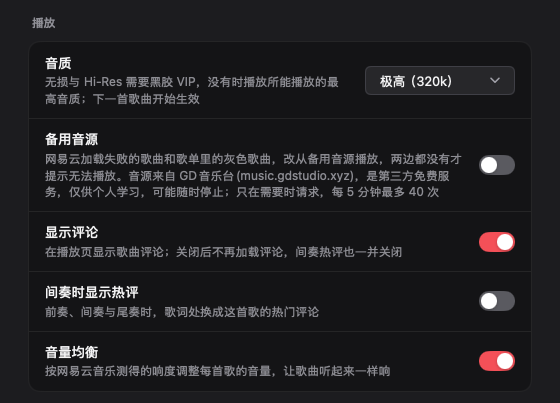
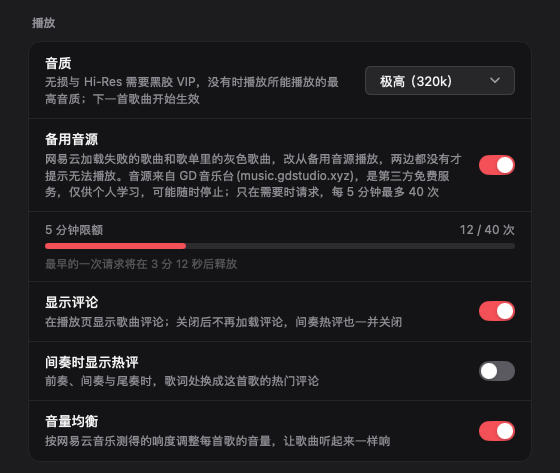
Release 0.1.25-duckease.5: README shows today's new features
New README screenshots, rendered from the real views with demo data:
picking songs, the playlist manager, the cover picker, the sidebar
editor, Now Playing with the fallback badge, and the settings' quota bar
and backup group. The new-features section lists everything added today
under this version.

diff --git a/internal/app/press_test.go b/internal/app/press_test.go
@@ -27,7 +27,9 @@ func TestPressScreenshots(t *testing.T) {
 	if err := os.MkdirAll(dir, 0o755); err != nil {
 		t.Fatal(err)
 	}
-	for _, scene := range []string{"home", "now-playing", "stage", "queue", "playlist", "settings"} {
+	fallbackUsage = func(time.Time) (int, int, time.Duration) { return 12, 40, 3*time.Minute + 12*time.Second }
+	defer func() { fallbackUsage = netease.FallbackUsage }()
+	for _, scene := range []string{"home", "now-playing", "stage", "queue", "playlist", "settings", "picking", "manager", "cover-picker", "sidebar", "backup"} {
 		for _, dark := range []bool{false, true} {
 			a := pressApp()
 			view, w, h := a.view, 1200, 800
@@ -37,10 +39,31 @@ func TestPressScreenshots(t *testing.T) {
 				a.playlists[pl.ID] = &pl
 				a.route = route{page: pagePlaylist, id: pl.ID}
 				a.plFilter = plFilter{id: pl.ID, sort: sortName}
-			case "settings":
-				view, w, h = a.settingsView, 560, 1100
+			case "settings", "backup":
+				view, w, h = a.settingsView, 560, 1500
+				a.settings.Fallback = true
+				a.backup = backupState{checked: true, at: time.Date(2026, 11, 12, 21, 30, 0, 0, time.Local)}
 			case "now-playing":
 				a.nowPlaying = true
+				// A song the fallback source served, as its badges say.
+				a.pl.SetStream(&netease.Stream{Level: "lossless", Type: "flac", Fallback: true})
+			case "picking":
+				pl := a.playlists[a.mine[1].ID]
+				a.route = route{page: pagePlaylist, id: pl.ID}
+				a.startPicking(pl.ID)
+				for _, i := range []int{1, 2, 4} {
+					a.pick.ids[pl.Tracks[i].ID] = true
+				}
+			case "manager":
+				a.route = route{page: pagePlaylist, id: a.mine[1].ID}
+				a.openManager(false)
+				a.manager.ids[a.mine[1].ID], a.manager.ids[a.mine[3].ID] = true, true
+			case "cover-picker":
+				a.route = route{page: pagePlaylist, id: a.mine[1].ID}
+				a.openCoverPicker(a.mine[1].ID)
+			case "sidebar":
+				a.customizing = true
+				a.settings.Sidebar = []sideItem{{ID: "home"}, {ID: "daily"}, {ID: "mine"}, {ID: "fm"}, {ID: "charts", Hidden: true}, {ID: "podcasts", Hidden: true}, {ID: "search"}, {ID: "saved"}}
 			case "stage":
 				a.nowPlaying, a.npPane = true, paneStage
 			case "queue":
@@ -51,14 +74,14 @@ func TestPressScreenshots(t *testing.T) {
 			tt.Advance(2 * time.Second)
 			tt.Frame()
 			img := tt.Image()
-			if scene == "settings" {
-				// The playback group, where the newest switches are.
-				from, ok := tt.Find("播放")
-				to, ok2 := tt.Find("缓存")
+			// The settings' groups the newest switches are in.
+			if from, to := map[string]string{"settings": "播放", "backup": "备份"}[scene], map[string]string{"settings": "缓存", "backup": "更新"}[scene]; from != "" {
+				f, ok := tt.Find(from)
+				e, ok2 := tt.Find(to)
 				if !ok || !ok2 {
-					t.Fatal("no playback group")
+					t.Fatalf("no %s group", from)
 				}
-				img = img.SubImage(image.Rect(0, int(from.Y-14), w, int(to.Y-10))).(*image.RGBA)
+				img = img.SubImage(image.Rect(0, int(f.Y-14), w, int(e.Y-10))).(*image.RGBA)
 			}
 			name := scene + "-light.png"
 			if dark {
@@ -106,6 +129,17 @@ func pressApp() *app {
 		}
 	}
 	a.daily = songs
+	// The listener's own playlists, the liked songs first, and those saved.
+	a.mine = []netease.Playlist{{ID: 200, Name: "Demo喜欢的音乐", SpecialType: 5, CoverURL: "press://cover/0", TrackCount: 8}}
+	for i, name := range []string{"通勤路上", "睡前听", "跑步歌单", "写作业"} {
+		a.mine = append(a.mine, netease.Playlist{ID: int64(201 + i), Name: name, CoverURL: fmt.Sprintf("press://cover/%d", (i+2)%8), TrackCount: 12 + i*7})
+	}
+	a.saved = []netease.Playlist{a.featured[0], a.featured[3]}
+	a.saved[0].Creator.Nickname, a.saved[1].Creator.Nickname = "晚风", "留灯的人"
+	a.playlists[201] = &netease.Playlist{ID: 201, Name: "通勤路上", CoverURL: "press://cover/2", Tracks: songs, Creator: a.featured[0].Creator}
+	a.playlists[201].Creator.Nickname = "Demo"
+	a.profile.UserID = 1
+	a.playlists[201].Creator.UserID = 1
 	a.pl.Cue(songs)
 	a.pl.SetLyrics(lyrics.Build("[00:00.00]晚风经过，灯一盏盏亮了\n[00:18.00]把没做完的事留给明天\n[00:36.00]今天就走到这里吧\n[00:54.00]慢一点，也能到家\n[01:12.00]耳机里还有一小段晴天\n[01:30.00]陪我沿着海岸走远", "", ""))
 	a.pl.Hold(40 * time.Second)

diff --git a/internal/app/ui_settings.go b/internal/app/ui_settings.go
@@ -283,11 +283,15 @@ func (a *app) settingsView(c *ui.Context) {
 	})
 }
 
+// fallbackUsage reads the fallback source's allowance; the README's
+// screenshots replace it.
+var fallbackUsage = netease.FallbackUsage
+
 // fallbackQuota shows how much of the fallback source's five minutes'
 // allowance is used: a bar filling toward the limit, and when a request
 // frees up again.
 func (a *app) fallbackQuota(c *ui.Context, p palette) {
-	used, limit, freeIn := netease.FallbackUsage(c.Now())
+	used, limit, freeIn := fallbackUsage(c.Now())
 	if freeIn > 0 {
 		// Drawn again each second, for the countdown, until the oldest
 		// request stops counting.

diff --git a/README.zh-CN.md b/README.zh-CN.md
@@ -44,30 +44,29 @@
 
 <table>
   <tr>
-    <td width="50%" valign="top"><b>正在播放</b><br>封面、播放控制和滚动歌词放在一页。<br><br><picture><source media="(prefers-color-scheme: dark)" srcset="assets/screenshots/now-playing-dark.png"><img alt="正在播放页，橙色演示封面旁显示本项目原创的中文演示歌词" src="assets/screenshots/now-playing-light.png"></picture></td>
+    <td width="50%" valign="top"><b>正在播放</b><br>封面、播放控制和滚动歌词放在一页。歌来自备用音源时，进度条下面会标出来。<br><br><picture><source media="(prefers-color-scheme: dark)" srcset="assets/screenshots/now-playing-dark.png"><img alt="正在播放页，橙色演示封面旁显示本项目原创的中文演示歌词" src="assets/screenshots/now-playing-light.png"></picture></td>
     <td width="50%" valign="top"><b>歌词律动</b><br>切到单独的舞台，看歌词跟着播放进度变化。<br><br><picture><source media="(prefers-color-scheme: dark)" srcset="assets/screenshots/stage-dark.png"><img alt="歌词律动页，展示本项目原创演示歌词中的一句" src="assets/screenshots/stage-light.png"></picture></td>
   </tr>
 </table>
 
-## 0.1.25-duckease.4 新功能
-
-- **批量管理歌单**：歌单页点「批量选择」，勾选的歌可以加到、移到别的歌单，或从当前歌单移除。侧边栏「我的歌单」「收藏的歌单」旁的按钮打开管理窗口，可以批量删除、取消收藏、复制或合并歌单。
-- **自定义封面**：在自己歌单封面右下角的「⋯」里换图，可以搜歌单里歌曲的专辑封面，也可以用本机图片，只存在本机。
-- **自定义侧边栏**：每一项都能关掉或调整顺序。
-- **备用音源提示**：播放页标出来自备用音源的歌和它的音质；设置里能看到 5 分钟限额用了多少。
-- **iCloud 备份**：在「设置 → 备份」里手动备份和恢复本机设置，不含网易云账号。
-- 刘海播放器已删除。
-
-## 0.1.25-duckease.3 新功能
+## 0.1.25-duckease.5 新功能
 
 <table>
   <tr>
-    <td width="58%" valign="top"><b>歌单排序与搜索</b><br>可以按歌名、歌手、专辑、时长排序，也可以倒序，中文按拼音排。<b>试试手气</b>每点一次就打乱成新的顺序，播放按页面上的顺序走。搜索框按歌名、歌手、专辑筛选，歌单里没有的歌，点一下就能到全部歌曲里搜。<br><br><picture><source media="(prefers-color-scheme: dark)" srcset="assets/screenshots/playlist-dark.png"><img alt="按歌名排序的演示歌单，歌曲上方是排序菜单、试试手气按钮和歌单内搜索框" src="assets/screenshots/playlist-light.png"></picture></td>
-    <td width="42%" valign="top"><b>备用音源与评论开关</b><br>都在「设置 → 播放」里。<b>备用音源</b>默认关闭，打开后，网易云加载失败的歌和歌单里的灰色歌曲改从 <a href="https://music.gdstudio.xyz">GD音乐台(music.gdstudio.xyz)</a> 取，两边都没有才提示无法播放。<b>显示评论</b>控制播放页的评论和间奏热评。<br><br><picture><source media="(prefers-color-scheme: dark)" srcset="assets/screenshots/settings-dark.png"><img alt="设置的播放分组，含备用音源与显示评论两个开关" src="assets/screenshots/settings-light.png"></picture></td>
+    <td width="50%" valign="top"><b>批量选择歌曲</b><br>歌单页点「批量选择」，点歌就是勾选，Shift 连选，⌘A 全选。底部浮条把选中的歌加到歌单、移到另一个歌单，或从当前歌单移除。「我喜欢的音乐」也能这样批量取消喜欢。<br><br><picture><source media="(prefers-color-scheme: dark)" srcset="assets/screenshots/picking-dark.png"><img alt="演示歌单处于批量选择状态，勾选了三首歌，底部浮条有添加到歌单、移到歌单和移除" src="assets/screenshots/picking-light.png"></picture></td>
+    <td width="50%" valign="top"><b>管理歌单</b><br>侧边栏歌单分组旁的按钮打开。自己的歌单可以多选后复制、迁移到一个歌单，或一起删除；收藏的歌单可以复制成自己的、合并，或一起取消收藏。请求逐个发出，避开网易云的风控。<br><br><picture><source media="(prefers-color-scheme: dark)" srcset="assets/screenshots/manager-dark.png"><img alt="管理歌单窗口，「我创建的」标签下勾选了两个演示歌单，底部有复制到、迁移到和删除" src="assets/screenshots/manager-light.png"></picture></td>
+  </tr>
+  <tr>
+    <td width="50%" valign="top"><b>换封面</b><br>自己歌单封面右下角的「⋯」里选「更换封面」，从歌单里歌曲的专辑封面中搜一张，或者用本机图片。封面只存在这台电脑上。<br><br><picture><source media="(prefers-color-scheme: dark)" srcset="assets/screenshots/cover-picker-dark.png"><img alt="更换封面窗口，列出演示歌单里歌曲的封面，上方是搜索框，下方是从本机选择图片" src="assets/screenshots/cover-picker-light.png"></picture></td>
+    <td width="50%" valign="top"><b>自定义侧边栏</b><br>侧边栏末尾的「自定义侧边栏」：每一项都能关掉，拖动或用箭头调顺序，底部的正在播放卡片也能隐藏。<br><br><picture><source media="(prefers-color-scheme: dark)" srcset="assets/screenshots/sidebar-dark.png"><img alt="自定义侧边栏窗口，排行榜和播客已关闭，我的歌单被移到私人 FM 上方" src="assets/screenshots/sidebar-light.png"></picture></td>
+  </tr>
+  <tr>
+    <td width="50%" valign="top"><b>备用音源看得见</b><br>歌从备用音源来时，播放页在进度条下面标出「备用音源」和它给的音质。打开备用音源后，设置里能看到 5 分钟 40 次的额度用了多少。<br><br><picture><source media="(prefers-color-scheme: dark)" srcset="assets/screenshots/settings-dark.png"><img alt="设置的播放分组，备用音源开关下面是 5 分钟限额进度条，显示 12 / 40 次" src="assets/screenshots/settings-light.png"></picture></td>
+    <td width="50%" valign="top"><b>iCloud 备份</b><br>「设置 → 备份」手动把设置、侧边栏布局、搜索记录和自定义封面存到 iCloud 云盘，换电脑后能恢复。不含网易云账号和登录信息。<br><br><picture><source media="(prefers-color-scheme: dark)" srcset="assets/screenshots/backup-dark.png"><img alt="设置的备份分组，有立即备份和从 iCloud 恢复两个按钮，显示上次备份时间" src="assets/screenshots/backup-light.png"></picture></td>
   </tr>
 </table>
 
-另外，应用会检查本仓库的新版本并提示下载，「关于」窗口里有我的 GitHub 和 Threads 链接。
+另外，刘海播放器已经删掉了，「⋯」按钮挪到了歌单封面右下角。
 
 ## 本机内存截图：191 MB
 
@@ -85,6 +84,7 @@ Go 原生界面，不套 WebView。下面是我自己 Mac 上的占用截图，*
 | 标准到 Hi-Res，取决于实际权限 | 搜索歌曲、歌手、专辑、用户、播客 | 本地歌曲缓存、恢复上次进度 |
 | 同步歌词、翻译 | 私人 FM、心动模式 | 封面手势、键盘操作 |
 | 收听和订阅播客 | 歌手页、专辑页、用户页 | 可自定义的侧边栏 |
+| 批量选歌、移动、移除 | 歌单管理、复制收藏的歌单 | 自定义歌单封面、iCloud 备份 |
 
 功能可用性由平台决定。选了某种音质，不等于获得了对应播放权限。本项目不增加会员解锁功能，也不承诺绕过访问限制。唯一的例外默认关闭、需要自己打开：设置里的「备用音源」会在歌曲加载失败或显示为灰色时，向第三方的 [GD音乐台](https://music.gdstudio.xyz) 接口取播放地址。它是别人运营的免费服务，仅限个人学习使用，可能随时停止。
 
@@ -96,12 +96,13 @@ Go 原生界面，不套 WebView。下面是我自己 Mac 上的占用截图，*
 - 播放失败时有限次数重试并记录诊断日志；收到风控代码 `-460` 时停下冷却，避免连续跳过整张歌单。
 - 公开版移除了继承的旧官网、网站歌曲演示和原作者的签名发布工作流。
 - 新增歌单排序、试试手气、歌单内搜索，可选的备用音源，以及评论开关。
+- 新增批量选择歌曲、歌单管理、自定义歌单封面、自定义侧边栏和 iCloud 备份；删除刘海播放器。
 
 具体来源与修改日期见 [NOTICE.md](NOTICE.md)，改动见[更新日志](CHANGELOG.md)，技术细节见[维护说明](MAINTENANCE.md)。公开仓库从清理后的源码快照开始，较早的本地开发历史不随之上传。
 
 ## macOS 安装
 
-[**下载 macOS DMG 安装包**](https://github.com/yuanruoyu515/duckease-music/releases/download/v0.1.25-duckease.4/duckease-music-0.1.25-duckease.4.dmg) · [发布说明与校验值](https://github.com/yuanruoyu515/duckease-music/releases/tag/v0.1.25-duckease.4)
+[**下载 macOS DMG 安装包**](https://github.com/yuanruoyu515/duckease-music/releases/download/v0.1.25-duckease.5/duckease-music-0.1.25-duckease.5.dmg) · [发布说明与校验值](https://github.com/yuanruoyu515/duckease-music/releases/tag/v0.1.25-duckease.5)
 
 1. 下载并打开 DMG。
 2. 把 **DuckEase Music** 拖进旁边的 **Applications（应用程序）**。

diff --git a/README.md b/README.md
@@ -44,21 +44,29 @@ These are renders of the app's actual Go views, using invented songs, original d
 
 <table>
   <tr>
-    <td width="50%" valign="top"><b>Now Playing</b><br>Cover art, playback controls, and a scrollable lyric view.<br><br><picture><source media="(prefers-color-scheme: dark)" srcset="assets/screenshots/now-playing-dark.png"><img alt="Now Playing with an orange demo sleeve and original Chinese demo lyrics" src="assets/screenshots/now-playing-light.png"></picture></td>
+    <td width="50%" valign="top"><b>Now Playing</b><br>Cover art, playback controls, and a scrollable lyric view. A song from the fallback source is marked under the progress bar.<br><br><picture><source media="(prefers-color-scheme: dark)" srcset="assets/screenshots/now-playing-dark.png"><img alt="Now Playing with an orange demo sleeve and original Chinese demo lyrics" src="assets/screenshots/now-playing-light.png"></picture></td>
     <td width="50%" valign="top"><b>Lyric stage</b><br>A separate view for the animated lyric styles.<br><br><picture><source media="(prefers-color-scheme: dark)" srcset="assets/screenshots/stage-dark.png"><img alt="The lyric stage rendering a line from the project's original demo lyrics" src="assets/screenshots/stage-light.png"></picture></td>
   </tr>
 </table>
 
-## New in 0.1.25-duckease.3
+## New in 0.1.25-duckease.5
 
 <table>
   <tr>
-    <td width="58%" valign="top"><b>Sort and search a playlist</b><br>Sort by name, artist, album, or length, or reverse the list. Chinese titles sort by pinyin. <b>Feeling lucky</b> shuffles the list into a new order each time you press it, and playback follows the order on screen. The search box filters by title, artist, or album. If a song isn't in the playlist, one click searches the whole catalog.<br><br><picture><source media="(prefers-color-scheme: dark)" srcset="assets/screenshots/playlist-dark.png"><img alt="A demo playlist sorted by name, with the sort menu, the Feeling lucky button, and the playlist search box above the songs" src="assets/screenshots/playlist-light.png"></picture></td>
-    <td width="42%" valign="top"><b>Fallback source and a comments switch</b><br>Both are under Settings → Playback. <b>Fallback source</b> is off by default. When it's on, songs that fail to load and greyed-out songs are fetched from <a href="https://music.gdstudio.xyz">GD音乐台(music.gdstudio.xyz)</a>. The app reports a song as unplayable only when both sources fail. <b>Show comments</b> turns the comments tab and the hot comments between verses on or off.<br><br><picture><source media="(prefers-color-scheme: dark)" srcset="assets/screenshots/settings-dark.png"><img alt="The Playback settings group, with the Fallback source and Show comments switches" src="assets/screenshots/settings-light.png"></picture></td>
+    <td width="50%" valign="top"><b>Pick songs</b><br>Press 批量选择 on a playlist page, then click songs to pick them, Shift-click for a range, ⌘A for all. A floating bar adds them to a playlist, moves them to another, or removes them. Liked songs can be unliked this way too.<br><br><picture><source media="(prefers-color-scheme: dark)" srcset="assets/screenshots/picking-dark.png"><img alt="A demo playlist in picking mode with three songs checked and a floating bar to add, move, or remove them" src="assets/screenshots/picking-light.png"></picture></td>
+    <td width="50%" valign="top"><b>Playlist manager</b><br>From the buttons beside the sidebar's playlist headers. Copy or migrate several of your playlists into one, or delete them together; copy saved playlists as your own, merge them, or unsave them. Requests go one at a time to stay clear of NetEase's risk control.<br><br><picture><source media="(prefers-color-scheme: dark)" srcset="assets/screenshots/manager-dark.png"><img alt="The playlist manager with two demo playlists checked and buttons to copy, migrate, or delete" src="assets/screenshots/manager-light.png"></picture></td>
+  </tr>
+  <tr>
+    <td width="50%" valign="top"><b>Covers</b><br>Open ⋯ on the corner of your own playlist's cover and choose 更换封面: search the album covers of its songs, or pick a picture from disk. The cover stays on this Mac.<br><br><picture><source media="(prefers-color-scheme: dark)" srcset="assets/screenshots/cover-picker-dark.png"><img alt="The cover picker listing the album covers of a demo playlist's songs, with a search box and a button to choose a picture from disk" src="assets/screenshots/cover-picker-light.png"></picture></td>
+    <td width="50%" valign="top"><b>Your sidebar</b><br>自定义侧边栏 at the end of the sidebar turns each section on or off and reorders them by drag or arrows. The Now Playing card can be hidden too.<br><br><picture><source media="(prefers-color-scheme: dark)" srcset="assets/screenshots/sidebar-dark.png"><img alt="The sidebar editor with Charts and Podcasts turned off and My playlists moved above Personal FM" src="assets/screenshots/sidebar-light.png"></picture></td>
+  </tr>
+  <tr>
+    <td width="50%" valign="top"><b>Fallback source, visible</b><br>Songs from the fallback source carry a 备用音源 badge and the quality it served on Now Playing. With the fallback on, Settings shows how much of its 40 requests per five minutes is used.<br><br><picture><source media="(prefers-color-scheme: dark)" srcset="assets/screenshots/settings-dark.png"><img alt="The Playback settings group with a five-minute quota bar under the fallback switch, at 12 of 40" src="assets/screenshots/settings-light.png"></picture></td>
+    <td width="50%" valign="top"><b>iCloud backup</b><br>Settings → Backup saves the app's settings, sidebar layout, search history and covers to iCloud Drive, by hand, and restores them on another Mac. Nothing of your NetEase account is included.<br><br><picture><source media="(prefers-color-scheme: dark)" srcset="assets/screenshots/backup-dark.png"><img alt="The Backup settings group with Back up now and Restore from iCloud buttons and the last backup time" src="assets/screenshots/backup-light.png"></picture></td>
   </tr>
 </table>
 
-The app also checks this repository's releases for new versions and offers to download them, and its About window links to my GitHub and Threads.
+The notch player is gone, and the ⋯ button now sits on the playlist cover's corner.
 
 ## 191 MB on my Mac
 
@@ -76,6 +84,7 @@ One snapshot, not a fixed memory budget or a controlled benchmark. Usage changes
 | Standard through Hi-Res quality, when available | Songs, artists, albums, users, podcasts | Local audio cache and playback resume |
 | Synced lyrics and translations | Personal FM and Heartbeat mode | Cover gestures and keyboard controls |
 | Podcast playback and subscriptions | Artist, album, and user pages | Customizable sidebar |
+| Pick, move, and remove songs in bulk | Playlist manager, copy saved playlists | Custom playlist covers, iCloud backup |
 
 Availability comes from the platform. Selecting a quality does not create an entitlement to it. This project does not add subscription unlocking or a promise to bypass access restrictions. The one exception is opt-in and off by default: the **Fallback source** setting asks the third-party [GD音乐台](https://music.gdstudio.xyz) API for songs that fail to load or show greyed out. That service is free, run by someone else, for personal study only, and may stop at any time.
 
@@ -87,13 +96,13 @@ Availability comes from the platform. Selecting a quality does not create an ent
 - Added bounded playback retries and diagnostic logging. When the platform returns risk-control code `-460`, the player stops and cools down instead of skipping through the queue.
 - Removed the inherited website, its music demo, and the original author's release/signing workflow from this publication.
 - Added playlist sorting, Feeling lucky, and playlist search; an optional fallback source; and a switch for comments.
-- 0.1.25-duckease.4: pick songs on a playlist page to add, move, or remove them together; a playlist manager for deleting, unsaving, copying, or merging several playlists; local cover images for your own playlists; a customizable sidebar; a badge for songs from the fallback source and its five-minute quota in Settings; manual backup of the app's own settings to iCloud Drive. The notch player is gone.
+- Added picking songs in bulk, a playlist manager, custom playlist covers, a customizable sidebar and iCloud backup; removed the notch player.
 
 See [provenance and modification dates](NOTICE.md), [changes](CHANGELOG.md), and [maintenance notes](MAINTENANCE.md). This repository starts from a clean publication snapshot; older local development history is not uploaded with it.
 
 ## Install on macOS
 
-[**Download the macOS DMG**](https://github.com/yuanruoyu515/duckease-music/releases/download/v0.1.25-duckease.4/duckease-music-0.1.25-duckease.4.dmg) · [Release notes and checksums](https://github.com/yuanruoyu515/duckease-music/releases/tag/v0.1.25-duckease.4)
+[**Download the macOS DMG**](https://github.com/yuanruoyu515/duckease-music/releases/download/v0.1.25-duckease.5/duckease-music-0.1.25-duckease.5.dmg) · [Release notes and checksums](https://github.com/yuanruoyu515/duckease-music/releases/tag/v0.1.25-duckease.5)
 
 1. Download and open the DMG.
 2. Drag **DuckEase Music** onto **Applications** beside it.

diff --git a/docs/SCREENSHOTS.md b/docs/SCREENSHOTS.md
@@ -8,7 +8,7 @@ The screenshots are rendered by the application's actual native Go views through
 NM_PRESS_SHOTS="$PWD/assets/screenshots" CGO_ENABLED=0   go test ./internal/app -run '^TestPressScreenshots$' -count=1
 ```
 
-`internal/app/press_test.go` renders home, Now Playing, the lyric stage, the queue, and a playlist sorted by name in light and dark appearances at 1200 × 800, plus the Playback group of the settings window at 560 points wide. Home greetings and date labels use the tester's current clock; screenshot pixels are deliberately not asserted.
+`internal/app/press_test.go` renders home, Now Playing (with a song from the fallback source), the lyric stage, the queue, a playlist sorted by name, songs picked on a playlist, the playlist manager, the cover picker and the sidebar editor in light and dark appearances at 1200 × 800, plus the Playback and Backup groups of the settings window at 560 points wide. The fallback quota and the last backup time shown are fixed demo values. Home greetings and date labels use the tester's current clock; screenshot pixels are deliberately not asserted.
 
 The original demo lyrics are written for this repository and are not transcribed from a recording. Abstract artwork is drawn by `pressCover`. No music is played or downloaded. Inspect new images before committing them.
 

diff --git a/RELEASING.md b/RELEASING.md
@@ -1,6 +1,6 @@
 # Publishing DuckEase Music / 发布说明
 
-Version `0.1.25-duckease.4` provides source and a macOS universal drag-install DMG. The repository has a test workflow, no automatic release uploader, and no signed update feed. The app finds new versions through the GitHub API's latest release, so tag each release `v<version>` and attach the `.dmg`. It does not use the original author's signing credentials, releases, or website.
+Version `0.1.25-duckease.5` provides source and a macOS universal drag-install DMG. The repository has a test workflow, no automatic release uploader, and no signed update feed. The app finds new versions through the GitHub API's latest release, so tag each release `v<version>` and attach the `.dmg`. It does not use the original author's signing credentials, releases, or website.
 
 公开版提供 macOS 通用 DMG 和对应标签源码。`scripts/build-local.sh` 负责测试并生成本地 ad hoc 签名的 macOS 应用和 DMG，不上传产物，也不做 Apple 公证。
 

diff --git a/SOURCE.md b/SOURCE.md
@@ -1,14 +1,14 @@
 # DuckEase Music — corresponding source
 
-Version: **0.1.25-duckease.4**
+Version: **0.1.25-duckease.5**
 
-This binary is built from the tag `v0.1.25-duckease.4` in:
+This binary is built from the tag `v0.1.25-duckease.5` in:
 
-https://github.com/yuanruoyu515/duckease-music/tree/v0.1.25-duckease.4
+https://github.com/yuanruoyu515/duckease-music/tree/v0.1.25-duckease.5
 
 Download the corresponding source archive:
 
-https://github.com/yuanruoyu515/duckease-music/archive/refs/tags/v0.1.25-duckease.4.tar.gz
+https://github.com/yuanruoyu515/duckease-music/archive/refs/tags/v0.1.25-duckease.5.tar.gz
 
 The archive includes the application source, dependency declarations, packaging configuration, and build scripts. Build requirements and commands are in README.md and RELEASING.md. Source remains under AGPL-3.0; the bundled LICENSE contains its terms. NOTICE.md records the original authorship and this fork's modifications.
 

diff --git a/CHANGELOG.md b/CHANGELOG.md
@@ -1,6 +1,8 @@
 # 更新日志
 
-## 未发布
+## 0.1.25-duckease.5
+
+2026-11-12。
 
 - 「我喜欢的音乐」也能批量选择后移除或移到别的歌单：移除就是对这些歌逐首取消喜欢，会先确认。
 - 歌单页的「⋯」按钮挪到封面右下角，改成半透明圆形按钮。更换封面只从这个菜单进，点封面本身不再换图。
